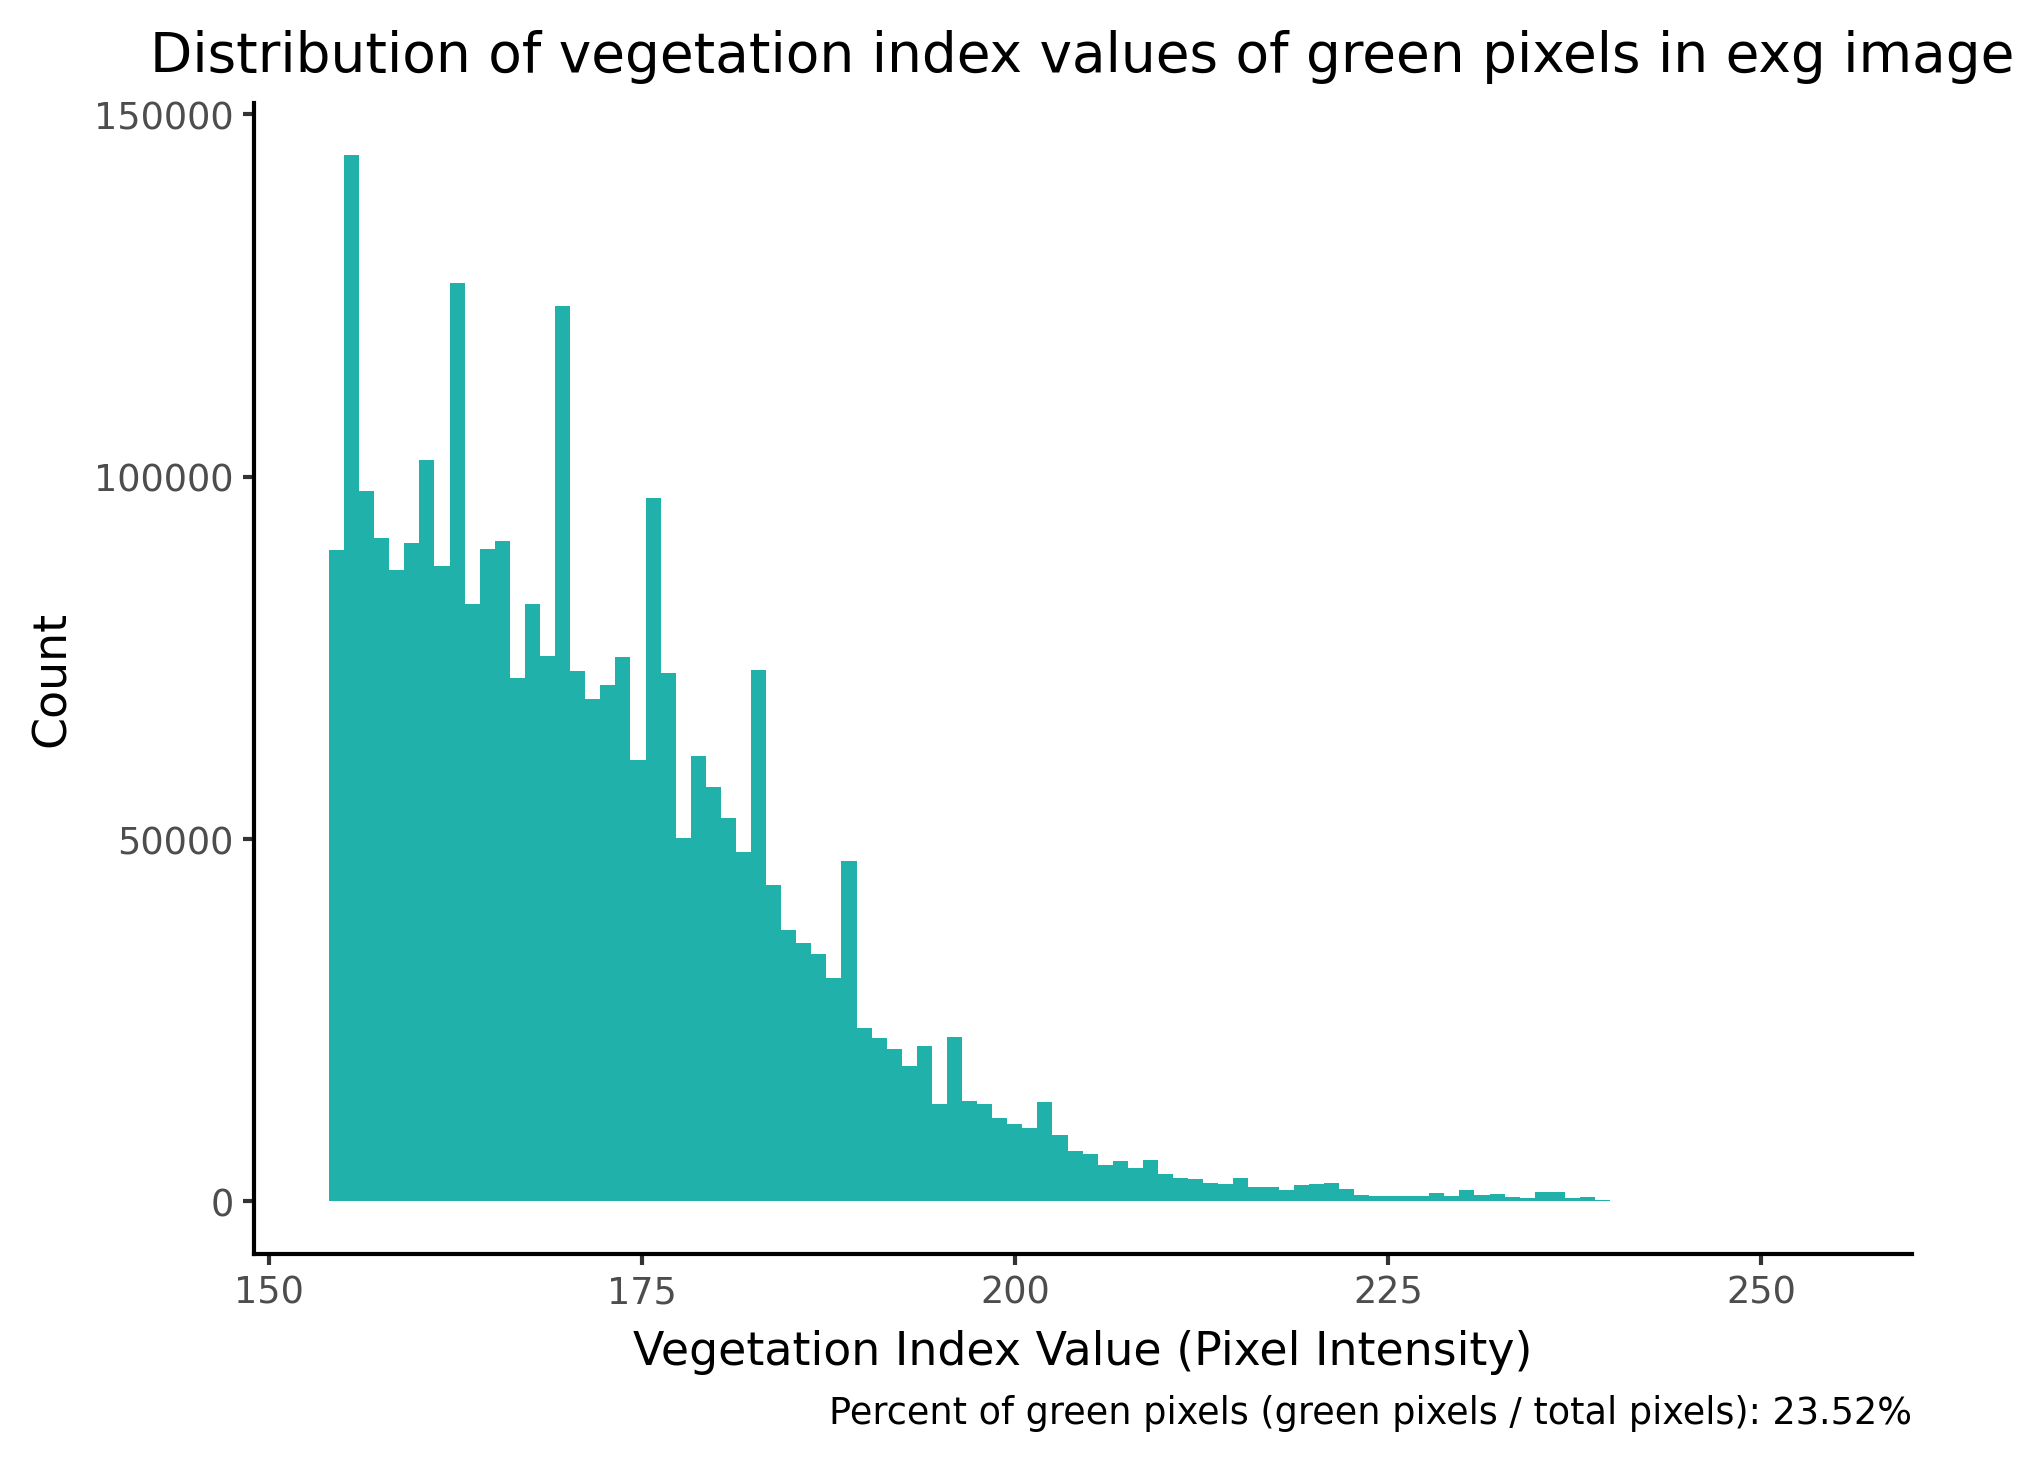
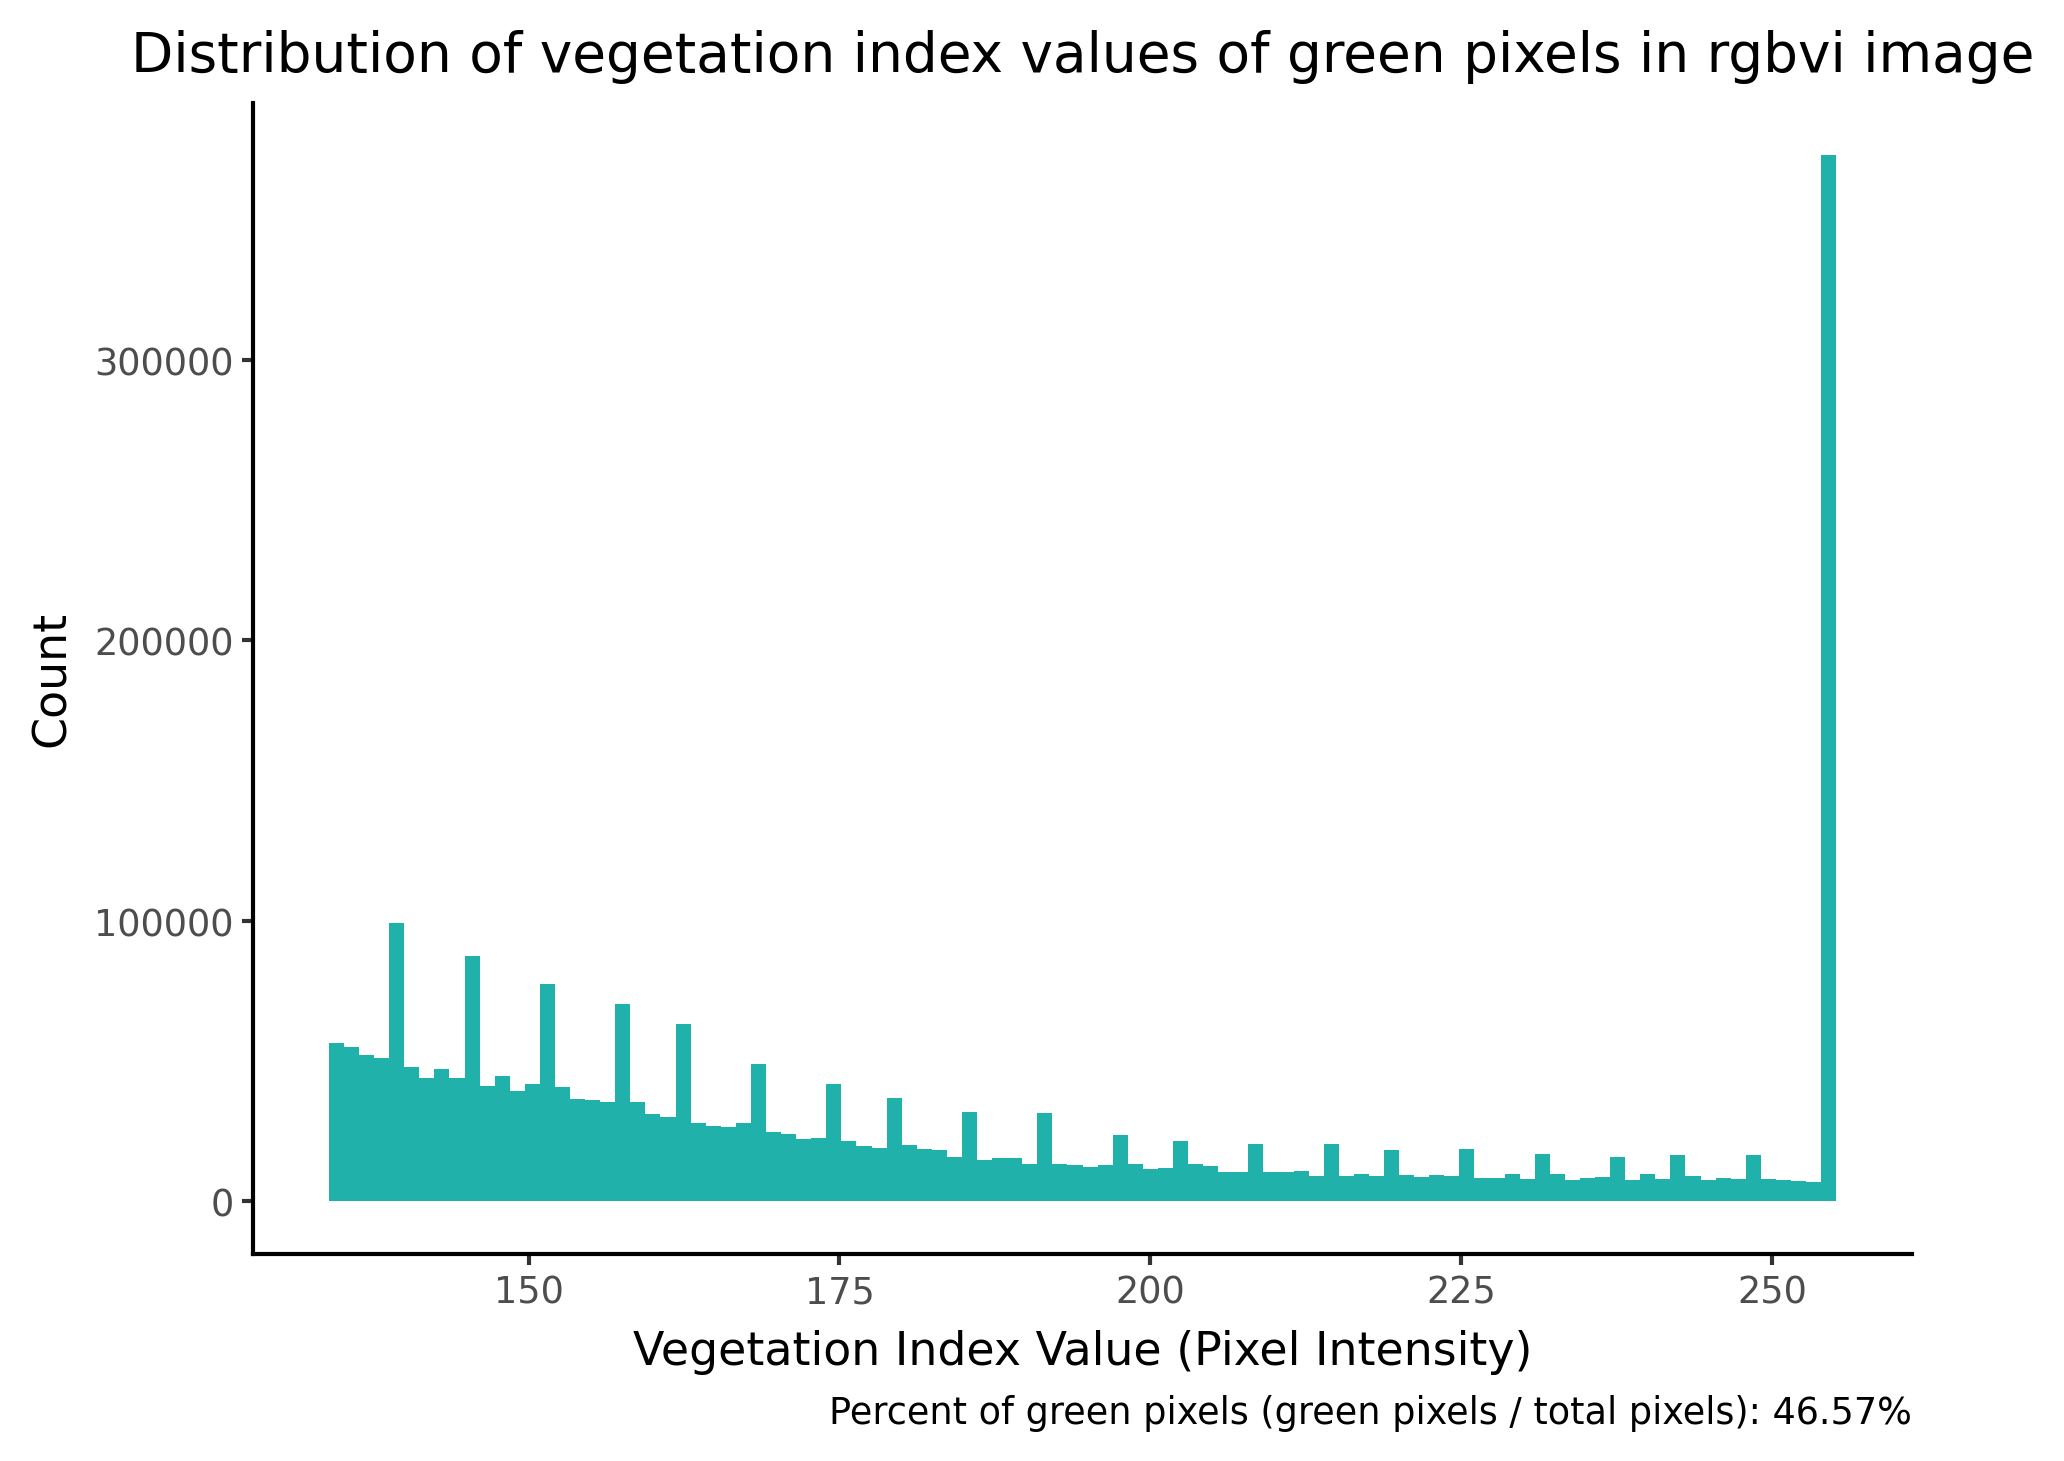
getting new image

diff --git a/master_script.py b/master_script.py
@@ -16,13 +16,13 @@ def main():
     '''
 
     # Enter parameters.
-    path = 'photos/test_photos/image_13.jpg' # path to input image
+    path = 'photos/test_photos_cropped/image_13.jpg' # path to input image
     output_path = 'results/master_script_output/test.jpg' # output path and filename. This is where your result will be saved. 
     crop = False # whether your photos need to be cropped into a square or not.
     keep_cropped_image = False # If your photos get cropped, choose here whether you want the cropped image to be saved. Definitely do this if you have to crop a lot of photos at once in a for loop or something. It takes forever and you should only have to do it once. 
 
     # Determine vegetation index that will be used
-    index_type = 'exg' # RGBVI worked well for my quadrat photos, ExG worked well on the willow leaf photos - feel free to experiment
+    index_type = 'rgbvi' # RGBVI worked well for my quadrat photos, ExG worked well on the willow leaf photos - feel free to experiment
 
     # INVESTIGATE HISTOGRAM
     '''
@@ -35,12 +35,12 @@ def main():
 
     # Determine threshold that will differentiate between live and dead plants.
     # Or experiment with skimage filters like otsu and median.
-    green_threshold = 155 # 135 worked well on RGBVI photos. 155 worked well on ExG photos. 
+    green_threshold = 135 # 135 worked well on RGBVI photos. 155 worked well on ExG photos. 
 
 
     # Run the process
     if crop == False:
-        run_script(path, output_path, index_type, green_threshold, crop)
+        run_script(path, output_path, index_type, green_threshold, crop, raw_imgs_path='photos/raw_photos_numbered/image_21.jpg')
 
     elif crop == True: # Run the process, but crop the images to a square first. 
         cropped_img = run_script(path, output_path, index_type, green_threshold, crop)
@@ -142,7 +142,7 @@ def run_script(path, output_path, index_type, green_threshold, crop, keep_croppe
     # Render the plotnine plot to an image
     fig = plot.draw()
     fig.savefig('results/plotnine_plot.png', dpi=300, bbox_inches='tight', pad_inches=0.1)
-    plot_image = plt.imread('results/plotnine_plot.png')
+    plot_image = plt.imread('results/master_script_output/plotnine_plot.png') # Save the plot here if you wanna
 
     # Explicitly delete the plot object because it kept being referenced by something and slowing things down
     del plot
